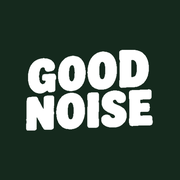
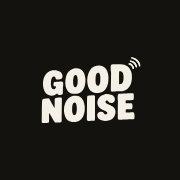
Update site metadata to coral/blue brand palette
Regenerates favicons, apple-touch-icon, and adds a web manifest + OG/Twitter
share image, all composited from the existing cream wordmark logo on a black
(#14120F) background, replacing the old forest-green favicon. Adds a
reproducible generation script (scripts/generate-metadata-assets.mjs)
mirroring the existing generate-logo-variants.mjs pattern. theme-color set
to coral (#FF4A00); manifest theme/background colors kept black/cream to
match the logo itself. Metadata is site-wide (SPA, single index.html), so
this also applies to the Spring Holidays workshop page's favicon/OG image —
its in-page content and legacy forest/burnt-orange styling are untouched.

Changed region(s): [[0.1111, 0.25, 0.8611, 0.75]]

diff --git a/index.html b/index.html
@@ -17,8 +17,38 @@
     <link rel="icon" type="image/png" sizes="192x192" href="/favicon-192x192.png" />
     <link rel="icon" type="image/png" sizes="512x512" href="/favicon-512x512.png" />
     <link rel="apple-touch-icon" sizes="180x180" href="/apple-touch-icon.png" />
+    <link rel="manifest" href="/site.webmanifest" />
+    <meta name="theme-color" content="#FF4A00" />
     <meta name="viewport" content="width=device-width, initial-scale=1.0" />
     <title>Good Noise Project | Youth Music Programs in Perth, WA</title>
+    <meta
+      name="description"
+      content="Inspiring young people to connect, create and find their voice through music. Community music workshops and holiday camps in Perth, WA."
+    />
+
+    <!-- Open Graph -->
+    <meta property="og:type" content="website" />
+    <meta property="og:site_name" content="Good Noise Project" />
+    <meta property="og:url" content="https://goodnoiseproject.com.au/" />
+    <meta property="og:title" content="Good Noise Project | Youth Music Programs in Perth, WA" />
+    <meta
+      property="og:description"
+      content="Inspiring young people to connect, create and find their voice through music. Community music workshops and holiday camps in Perth, WA."
+    />
+    <meta property="og:image" content="https://goodnoiseproject.com.au/og-image.png" />
+    <meta property="og:image:width" content="1200" />
+    <meta property="og:image:height" content="630" />
+    <meta property="og:image:alt" content="Good Noise Project wordmark on black" />
+
+    <!-- Twitter -->
+    <meta name="twitter:card" content="summary_large_image" />
+    <meta name="twitter:title" content="Good Noise Project | Youth Music Programs in Perth, WA" />
+    <meta
+      name="twitter:description"
+      content="Inspiring young people to connect, create and find their voice through music. Community music workshops and holiday camps in Perth, WA."
+    />
+    <meta name="twitter:image" content="https://goodnoiseproject.com.au/og-image.png" />
+
     <link rel="preconnect" href="https://fonts.googleapis.com" />
     <link rel="preconnect" href="https://fonts.gstatic.com" crossorigin />
     <!--
